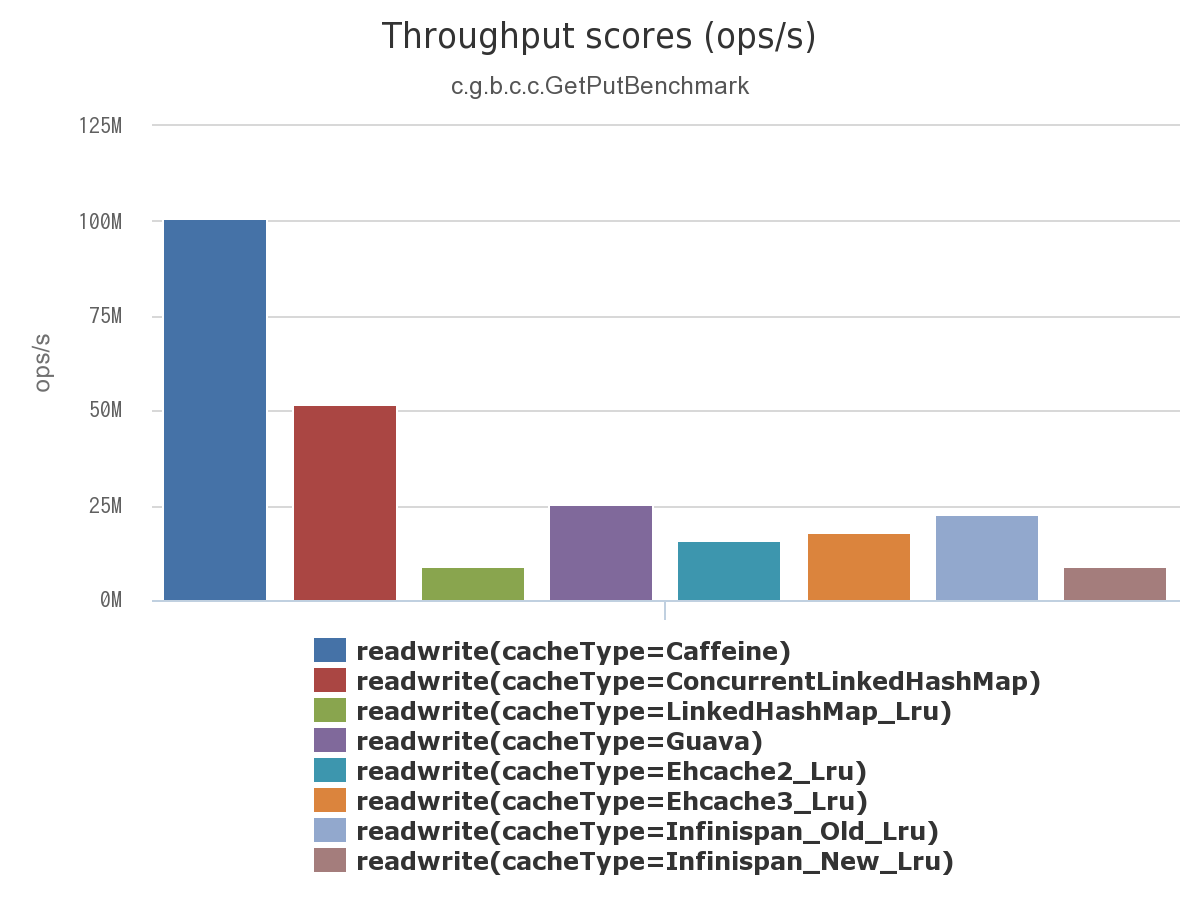
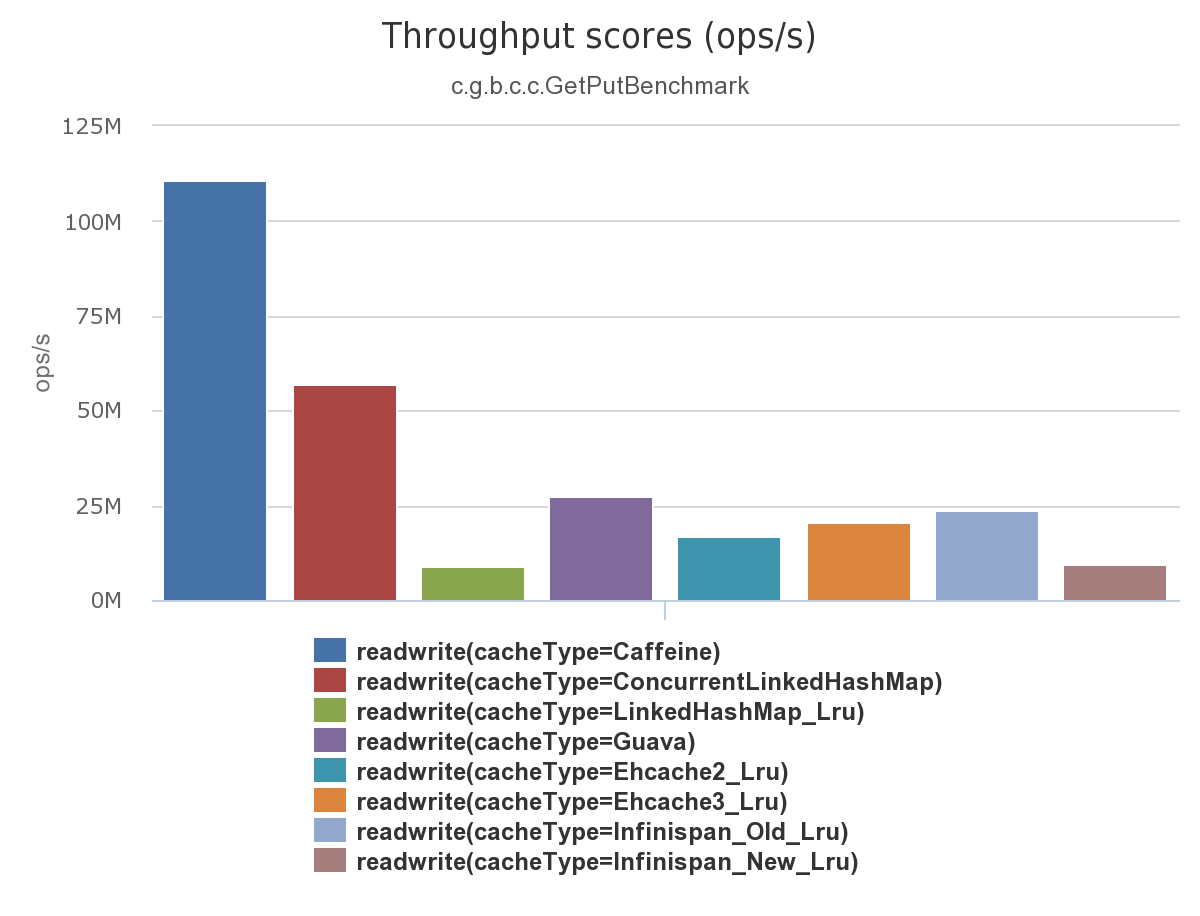
Improve zipf distribution usage
Previously the number of items equalled the sequence length, and an
unknown number of requests were then performed by the benchmark. The
distribution should have fewer items to better demonstrate its power
law behavior. It now uses 1/4th, so 8k items for a 32k sequence.

diff --git a/caffeine/src/jmh/java/com/github/benmanes/caffeine/profiler/CacheProfiler.java b/caffeine/src/jmh/java/com/github/benmanes/caffeine/profiler/CacheProfiler.java
@@ -32,6 +32,7 @@ public final class CacheProfiler extends ProfilerHook {
   static final int MAX_SIZE = 2 * NUM_THREADS;
   static final int SIZE = (2 << 14);
   static final int MASK = SIZE - 1;
+  static final int ITEMS = SIZE / 4;
 
   final BasicCache<Integer, Boolean> cache;
   final Random random = new Random();
@@ -41,7 +42,7 @@ public final class CacheProfiler extends ProfilerHook {
   CacheProfiler() {
     ints = new Integer[SIZE];
     cache = cacheType.create(2 * SIZE);
-    IntegerGenerator generator = new ScrambledZipfianGenerator(SIZE);
+    IntegerGenerator generator = new ScrambledZipfianGenerator(ITEMS);
     for (int i = 0; i < SIZE; i++) {
       ints[i] = generator.nextInt();
       cache.put(ints[i], Boolean.TRUE);

diff --git a/caffeine/src/jmh/java/com/github/benmanes/caffeine/cache/GetPutBenchmark.java b/caffeine/src/jmh/java/com/github/benmanes/caffeine/cache/GetPutBenchmark.java
@@ -35,6 +35,7 @@ import com.github.benmanes.caffeine.cache.simulator.generator.ScrambledZipfianGe
 public class GetPutBenchmark {
   private static final int SIZE = (2 << 14);
   private static final int MASK = SIZE - 1;
+  private static final int ITEMS = SIZE / 4;
 
   @Param({
     "LinkedHashMap_Lru",
@@ -61,7 +62,7 @@ public class GetPutBenchmark {
   public void setup() {
     ints = new Integer[SIZE];
     cache = cacheType.create(2 * SIZE);
-    IntegerGenerator generator = new ScrambledZipfianGenerator(SIZE);
+    IntegerGenerator generator = new ScrambledZipfianGenerator(ITEMS);
     for (int i = 0; i < SIZE; i++) {
       ints[i] = generator.nextInt();
       cache.put(ints[i], Boolean.TRUE);
